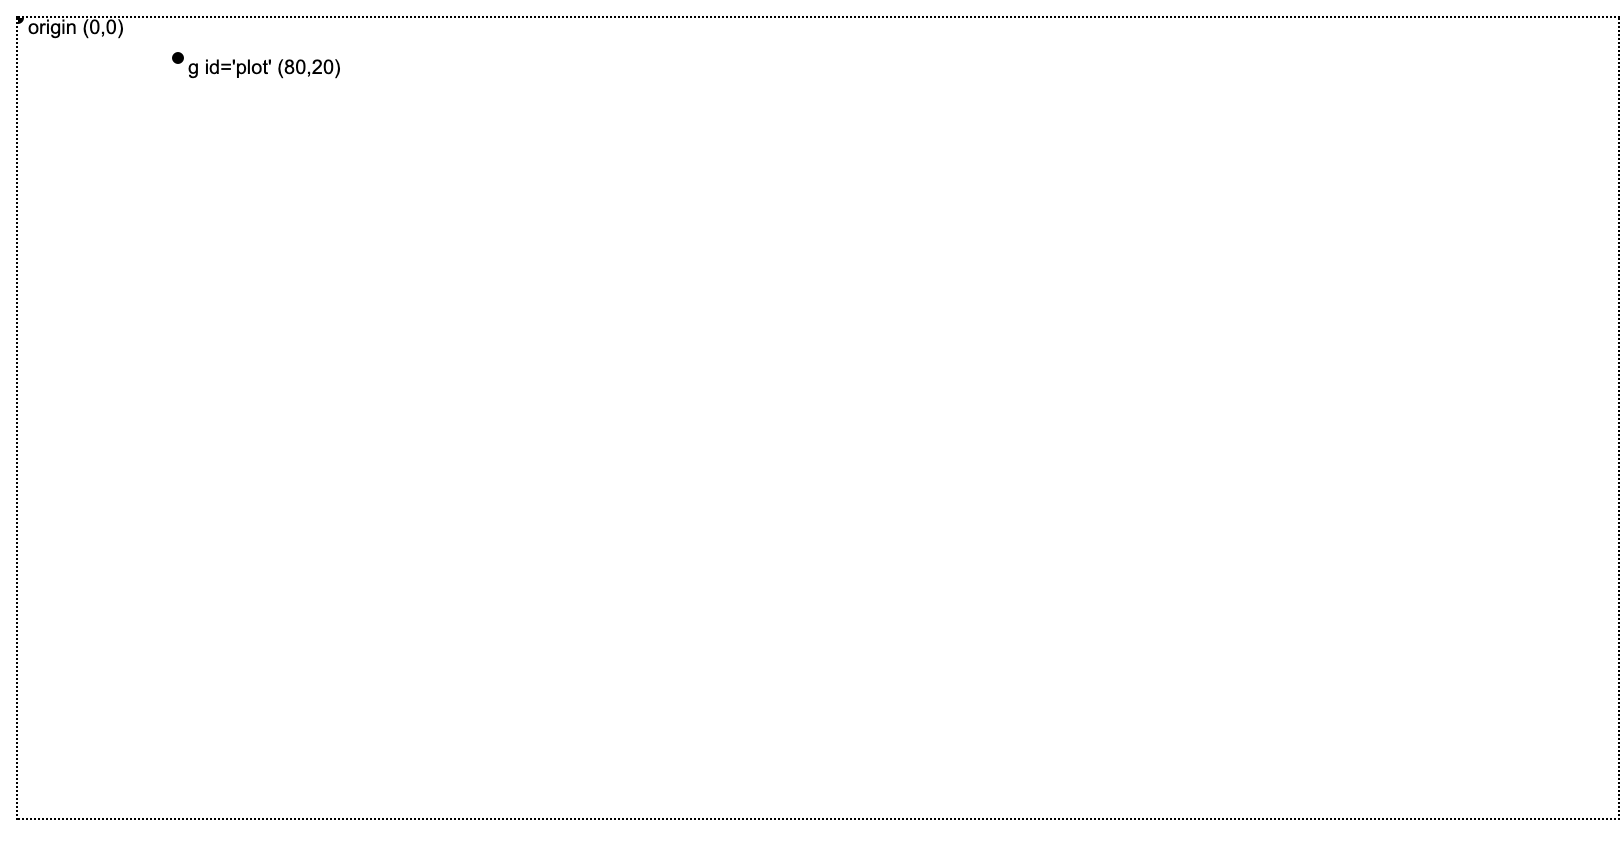
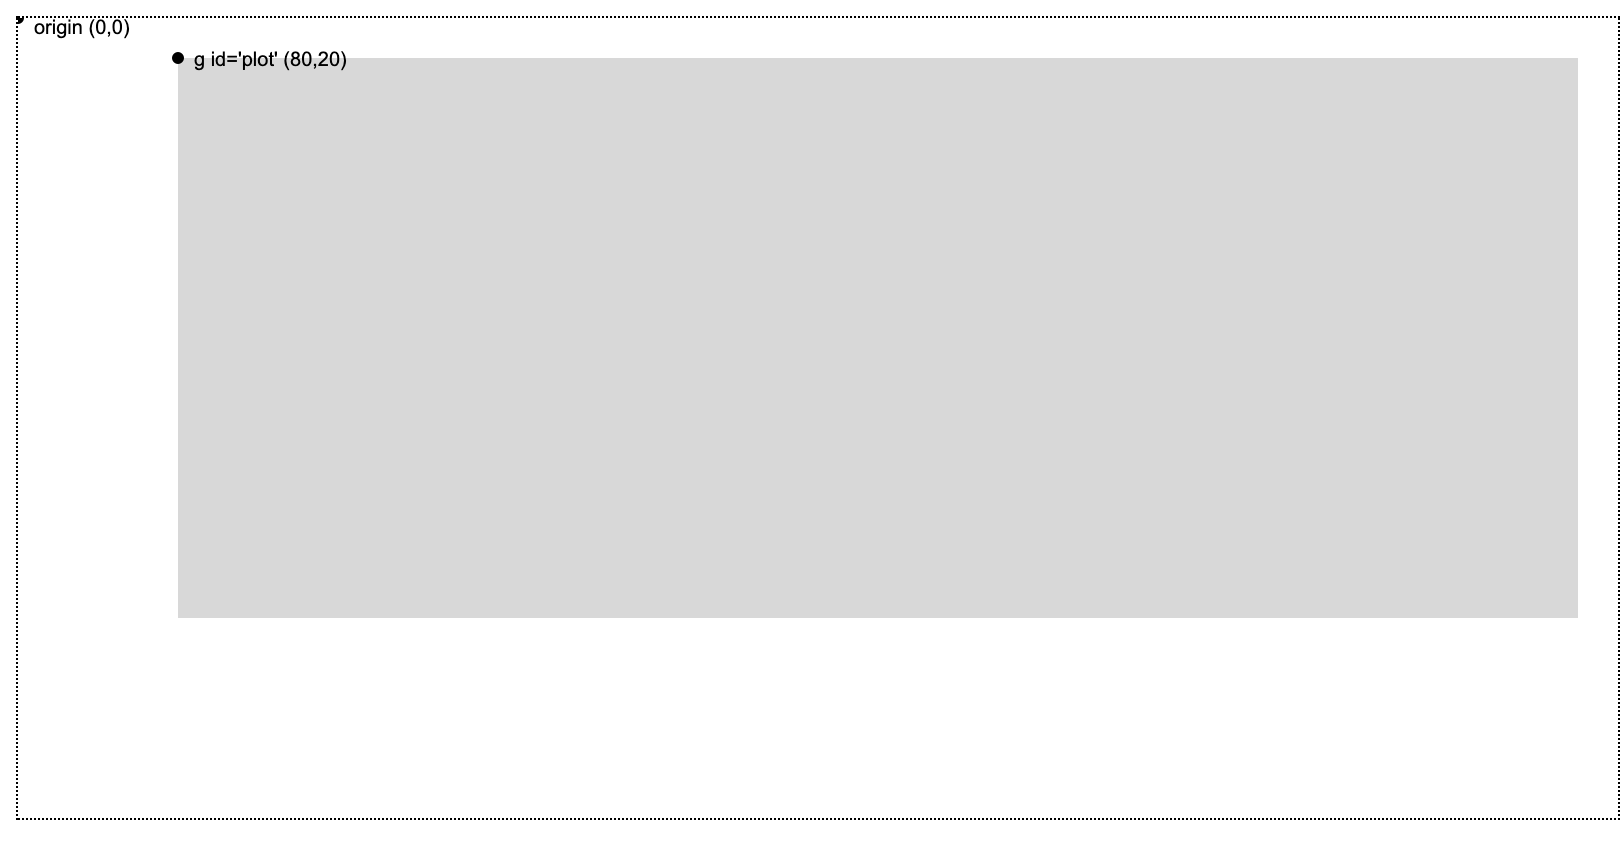
add rect to g element for viz

diff --git a/viz/margins.html b/viz/margins.html
@@ -6,6 +6,9 @@
         #container {
             border: 1px dotted black;
         }
+        #plot_area {
+            fill: rgb(216, 216, 216);
+        }
         text {
             font-size: 10px;
             font-family: sans-serif;
@@ -32,11 +35,16 @@
             .attr("fill", "black");
         var origin_label = svg.append("text")
             .attr("id", "origin_label")
-            .attr("transform", "translate(5,8)")
+            .attr("x", "1%")
+            .attr("y", "2%")
             .text("origin (0,0)");
         var plot = svg.append("g")
             .attr("id","plot")
             .attr("transform", "translate("+margin.left+","+margin.top+")");
+        var plot_area = plot.append("rect")
+            .attr("id", "plot_area")
+            .attr("width", width)
+            .attr("height", height);
         var group = plot.append("circle")
             .attr("id","group")
             .attr("cx",0)
@@ -45,8 +53,9 @@
             .attr("fill", "black");
         var g_label = plot.append("text")
             .attr("id", "group_label")
-            .attr("transform", "translate(5,8)")            
+            .attr("x", "1%")
+            .attr("y", "1%")
             .text("g id='plot' ("+margin.left+","+margin.top+")");            
-
+            
     </script>
 </body>
